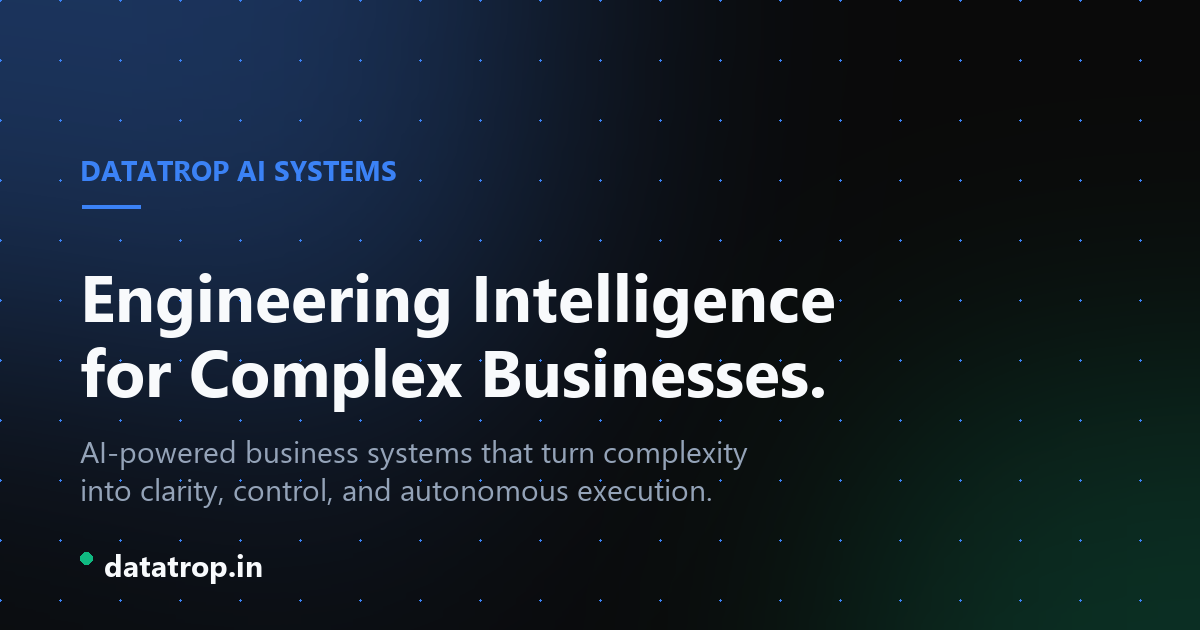
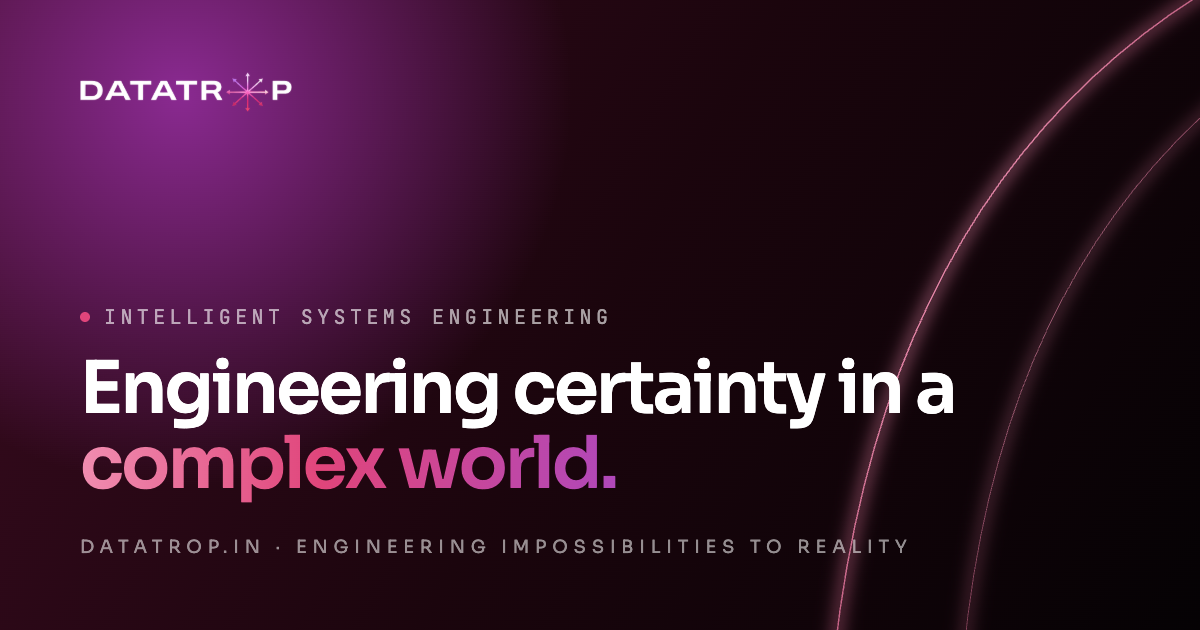
Per-page SEO, pre-rendered HTML and Google Analytics
SEO
- Each page now has its own title, description, canonical, Open Graph /
  Twitter tags, share image and JSON-LD (WebPage, breadcrumbs, and
  Service entries on /what-we-do). Previously every route declared itself
  a duplicate of the homepage via the canonical tag.
- `npm run build` now also server-renders every page into dist/*.html, so
  crawlers and link previews get real content without running JS;
  .htaccess serves /about → about.html etc.
- New brand share images per page (public/og/*.jpg); default og-image
  refreshed. Organization/WebSite JSON-LD get stable @ids; obsolete
  keywords meta removed.

Analytics
- GA4 loads only when VITE_GA_MEASUREMENT_ID is set (deploy reads the
  GA_MEASUREMENT_ID repository variable). Tracks page views across in-app
  navigation, book/message/email/phone clicks, and book_call /
  generate_lead conversions.

diff --git a/src/seo.js b/src/seo.js
@@ -1,0 +1,124 @@
+// Per-page search and share metadata. Used by the app at runtime (title,
+// description, canonical and share tags change as visitors move between pages)
+// and by scripts/prerender.mjs, which bakes the same tags into a static HTML
+// file per page so crawlers and link previews see them without running JS.
+
+export const SITE_URL = 'https://datatrop.in'
+
+export const PAGE_META = {
+  home: {
+    path: '/',
+    title: 'Datatrop | AI Systems & Business Automation Engineering',
+    description:
+      'Datatrop designs, builds and operates intelligent business systems: enterprise AI platforms, AI agents and workforce automation, revenue and communication intelligence. Engineered around your problem, from Kerala, India.',
+    image: '/og/home.jpg',
+  },
+  about: {
+    path: '/about',
+    title: 'About Datatrop | Intelligent Systems Engineering Company',
+    description:
+      'Datatrop is an intelligent systems engineering company. Learn how we build, solve and innovate, the complexity scale we work across, and why we start with the problem, not the technology.',
+    image: '/og/about.jpg',
+    crumb: 'About',
+  },
+  'what-we-do': {
+    path: '/what-we-do',
+    title: 'What We Do | Enterprise AI, AI Agents & Automation | Datatrop',
+    description:
+      'Enterprise AI systems, AI workforce platforms, revenue intelligence, communication intelligence and AI product development. Custom systems that remove manual work, connect your tools and speed up decisions.',
+    image: '/og/what-we-do.jpg',
+    crumb: 'What We Do',
+  },
+  industries: {
+    path: '/industries',
+    title: 'Industries | AI & Automation for Manufacturing, Distribution, Healthcare & Finance | Datatrop',
+    description:
+      'Operational AI and automation systems for manufacturing, distribution and trading, healthcare and financial services, plus logistics, retail, government, energy and more.',
+    image: '/og/industries.jpg',
+    crumb: 'Industries',
+  },
+  contact: {
+    path: '/contact',
+    title: 'Contact Datatrop | Book a 30-Minute Strategy Call',
+    description:
+      'Book a 30-minute strategy call with a Datatrop engineer straight into our calendar, or send us a message and we will reply within 24 hours.',
+    image: '/og/contact.jpg',
+    crumb: 'Contact',
+  },
+}
+
+export const pageKeyFromPath = (path) => {
+  const clean = (path || '/').replace(/\/+$/, '') || '/'
+  return Object.keys(PAGE_META).find((k) => PAGE_META[k].path === clean) || null
+}
+
+// JSON-LD for a page: WebPage + breadcrumb (the Organization block lives in index.html)
+export function pageJsonLd(key) {
+  const m = PAGE_META[key]
+  const url = SITE_URL + (m.path === '/' ? '/' : m.path)
+  const graph = [
+    {
+      '@type': 'WebPage',
+      '@id': `${url}#webpage`,
+      url,
+      name: m.title,
+      description: m.description,
+      isPartOf: { '@id': `${SITE_URL}/#website` },
+      about: { '@id': `${SITE_URL}/#organization` },
+      inLanguage: 'en',
+    },
+  ]
+  if (m.crumb) {
+    graph.push({
+      '@type': 'BreadcrumbList',
+      itemListElement: [
+        { '@type': 'ListItem', position: 1, name: 'Home', item: `${SITE_URL}/` },
+        { '@type': 'ListItem', position: 2, name: m.crumb, item: url },
+      ],
+    })
+  }
+  if (key === 'what-we-do') {
+    const services = [
+      ['Enterprise AI Systems', 'Unified operating platforms that connect every department into one intelligent system.'],
+      ['AI Workforce Platforms', 'Multi-agent systems that execute operational work such as intake, reconciliation, follow-ups and reporting.'],
+      ['Revenue Intelligence Systems', 'Lead intelligence, sales automation and conversion optimization.'],
+      ['Communication Intelligence Platforms', 'Omnichannel communication with call and conversation intelligence.'],
+      ['AI Product Development', 'AI-native products and industry platforms, engineered end to end.'],
+    ]
+    for (const [name, description] of services) {
+      graph.push({ '@type': 'Service', name, description, provider: { '@id': `${SITE_URL}/#organization` }, areaServed: 'Worldwide' })
+    }
+  }
+  return { '@context': 'https://schema.org', '@graph': graph }
+}
+
+// Keep the live document's head in sync when the app switches pages
+export function applyPageMeta(key) {
+  if (typeof document === 'undefined' || !PAGE_META[key]) return
+  const m = PAGE_META[key]
+  const url = SITE_URL + (m.path === '/' ? '/' : m.path)
+  const image = SITE_URL + m.image
+  document.title = m.title
+  const set = (selector, attr, value) => {
+    const el = document.head.querySelector(selector)
+    if (el) el.setAttribute(attr, value)
+  }
+  set('meta[name="description"]', 'content', m.description)
+  set('link[rel="canonical"]', 'href', url)
+  set('meta[property="og:title"]', 'content', m.title)
+  set('meta[property="og:description"]', 'content', m.description)
+  set('meta[property="og:url"]', 'content', url)
+  set('meta[property="og:image"]', 'content', image)
+  set('meta[property="og:image:alt"]', 'content', m.title)
+  set('meta[name="twitter:title"]', 'content', m.title)
+  set('meta[name="twitter:description"]', 'content', m.description)
+  set('meta[name="twitter:image"]', 'content', image)
+  let ld = document.getElementById('page-jsonld')
+  if (!ld) {
+    ld = document.createElement('script')
+    ld.type = 'application/ld+json'
+    ld.id = 'page-jsonld'
+    document.head.appendChild(ld)
+  }
+  ld.textContent = JSON.stringify(pageJsonLd(key))
+}

diff --git a/index.html b/index.html
@@ -5,9 +5,8 @@
     <meta name="viewport" content="width=device-width, initial-scale=1.0" />
 
     <!-- Primary meta -->
-    <title>Datatrop: Engineering Certainty in a Complex World</title>
-    <meta name="description" content="Datatrop AI Systems is an intelligent systems engineering company that designs, builds, and operates solutions for complex business and societal challenges, bringing together AI, software engineering, automation, and systems thinking to transform complexity into lasting stability." />
-    <meta name="keywords" content="systems engineering, intelligent systems, AI systems, enterprise AI, business transformation, digital transformation, automation, systems integration, Datatrop, systems engineering company India" />
+    <title>Datatrop | AI Systems &amp; Business Automation Engineering</title>
+    <meta name="description" content="Datatrop designs, builds and operates intelligent business systems: enterprise AI platforms, AI agents and workforce automation, revenue and communication intelligence. Engineered around your problem, from Kerala, India." />
     <meta name="author" content="Datatrop AI Systems" />
     <meta name="robots" content="index, follow, max-image-preview:large, max-snippet:-1, max-video-preview:-1" />
     <meta name="theme-color" content="#1B050D" />
@@ -22,20 +21,20 @@
     <!-- Open Graph -->
     <meta property="og:type" content="website" />
     <meta property="og:site_name" content="Datatrop AI Systems" />
-    <meta property="og:title" content="Datatrop: Engineering Certainty in a Complex World" />
-    <meta property="og:description" content="Datatrop is an intelligent systems engineering company. We design, build, and operate the systems that restore order wherever complexity prevents progress." />
+    <meta property="og:title" content="Datatrop | AI Systems &amp; Business Automation Engineering" />
+    <meta property="og:description" content="Datatrop designs, builds and operates intelligent business systems: enterprise AI platforms, AI agents and workforce automation, revenue and communication intelligence. Engineered around your problem, from Kerala, India." />
     <meta property="og:url" content="https://datatrop.in/" />
-    <meta property="og:image" content="https://datatrop.in/og-image.png" />
+    <meta property="og:image" content="https://datatrop.in/og/home.jpg" />
     <meta property="og:image:width" content="1200" />
     <meta property="og:image:height" content="630" />
-    <meta property="og:image:alt" content="Datatrop: Engineering Certainty in a Complex World" />
+    <meta property="og:image:alt" content="Datatrop | AI Systems &amp; Business Automation Engineering" />
     <meta property="og:locale" content="en_US" />
 
     <!-- Twitter -->
     <meta name="twitter:card" content="summary_large_image" />
-    <meta name="twitter:title" content="Datatrop: Engineering Certainty in a Complex World" />
-    <meta name="twitter:description" content="An intelligent systems engineering company. We design, build, and operate the systems that restore order wherever complexity prevents progress." />
-    <meta name="twitter:image" content="https://datatrop.in/og-image.png" />
+    <meta name="twitter:title" content="Datatrop | AI Systems &amp; Business Automation Engineering" />
+    <meta name="twitter:description" content="Datatrop designs, builds and operates intelligent business systems: enterprise AI platforms, AI agents and workforce automation, revenue and communication intelligence. Engineered around your problem, from Kerala, India." />
+    <meta name="twitter:image" content="https://datatrop.in/og/home.jpg" />
 
     <!-- Structured data -->
     <script type="application/ld+json">
@@ -43,13 +42,14 @@
       {
         "@context": "https://schema.org",
         "@type": ["Organization", "ProfessionalService"],
+        "@id": "https://datatrop.in/#organization",
         "name": "Datatrop AI Systems",
         "alternateName": "Datatrop",
         "url": "https://datatrop.in/",
         "logo": "https://datatrop.in/datatrop-logo.png",
-        "image": "https://datatrop.in/og-image.png",
+        "image": "https://datatrop.in/og/home.jpg",
         "description": "Datatrop AI Systems is a technology engineering company that designs and builds intelligent business systems for organizations facing complex operational and data challenges. We combine artificial intelligence, data engineering, custom software, enterprise integrations, cloud technologies and advanced analytics into unified operational platforms. Every solution is engineered around the problem, not around a particular technology.",
-        "slogan": "Engineering Intelligence. Solving Complexity.",
+        "slogan": "Engineering impossibilities to reality.",
         "sameAs": ["https://www.linkedin.com/company/datatrop-ai"],
         "email": "sales@datatrop.in",
         "telephone": "+91-7902917795",
@@ -78,6 +78,8 @@
       {
         "@context": "https://schema.org",
         "@type": "WebSite",
+        "@id": "https://datatrop.in/#website",
+        "publisher": { "@id": "https://datatrop.in/#organization" },
         "name": "Datatrop AI Systems",
         "url": "https://datatrop.in/"
       }

diff --git a/src/App.jsx b/src/App.jsx
@@ -1,6 +1,8 @@
 import { useState, useEffect, useRef } from 'react'
 import './App.css'
 import { api } from './lib/api'
+import { PAGE_META, pageKeyFromPath, applyPageMeta } from './seo'
+import { initAnalytics, trackPageView, track } from './analytics'
 
 // ── Booking: handled natively by <BookingWidget/>, which reads real availability
 //    from the connected Outlook calendar and books the meeting on it.
@@ -118,6 +120,7 @@ function BookingWidget() {
     setBusy(true); setErr('')
     try {
       const r = await api.createBooking({ ...form, start: slot.start })
+      track('book_call', { method: 'calendar' })
       setDone(r)
     } catch (e2) {
       setErr(e2.message || 'Could not complete the booking.')
@@ -1659,6 +1662,7 @@ function Contact({ settings }) {
         company_size: form.size,
         challenge: form.challenge,
       })
+      track('generate_lead', { method: 'contact_form', industry: form.industry || undefined, company_size: form.size || undefined })
       setSubmitted(true)
       setForm(emptyForm)
     } catch (e2) {
@@ -1833,16 +1837,7 @@ function hexToChannels(hex) {
 
 const STATIC_PREVIEW = import.meta.env.VITE_STATIC_PREVIEW === 'true'
 
-const PAGES = {
-  '/': { key: 'home', title: 'Datatrop: Engineering Certainty in a Complex World' },
-  '/about': { key: 'about', title: 'About Datatrop: Intelligent Systems Engineering' },
-  '/what-we-do': { key: 'what-we-do', title: 'What We Do: AI Systems, Workforces and Platforms | Datatrop' },
-  '/industries': { key: 'industries', title: 'Industries | Datatrop' },
-  '/contact': { key: 'contact', title: 'Contact Datatrop: Book a Strategy Call' },
-}
-const normalizePath = (path) => (path.replace(/\/+$/, '') || '/')
-const pageFromPath = (path) => PAGES[normalizePath(path)]?.key || 'home'
-const titleFor = (key) => Object.values(PAGES).find((p) => p.key === key)?.title || PAGES['/'].title
+const pageFromPath = (path) => pageKeyFromPath(path) || 'home'
 
 function scrollToHash(hash) {
   const id = (hash || '').replace('#', '')
@@ -1862,6 +1857,7 @@ export default function App({ page: initialPage = 'home' }) {
   const [serviceLines, setServiceLines] = useState(DEFAULT_SERVICE_LINES)
 
   useEffect(() => {
+    initAnalytics()
     api.getContent().then((row) => {
       if (!row) return
       setSettings(row)
@@ -1880,7 +1876,8 @@ export default function App({ page: initialPage = 'home' }) {
 
   // Page title + land on any #section in the URL once the page has rendered
   useEffect(() => {
-    document.title = titleFor(page)
+    applyPageMeta(page)
+    trackPageView(PAGE_META[page].path, PAGE_META[page].title)
     const hash = pendingHash.current
     pendingHash.current = ''
     const t = setTimeout(() => scrollToHash(hash), 60)
@@ -1903,9 +1900,15 @@ export default function App({ page: initialPage = 'home' }) {
     if (e.defaultPrevented || e.button !== 0 || e.metaKey || e.ctrlKey || e.shiftKey || e.altKey) return
     const a = e.target.closest('a')
     const href = a?.getAttribute('href')
-    if (!href || !href.startsWith('/') || a.target === '_blank') return
+    if (!href) return
+    const where = a.closest('nav') ? 'nav' : a.closest('footer') ? 'footer' : (a.closest('section')?.id || 'page')
+    if (href.startsWith('mailto:')) track('contact_click', { method: 'email' })
+    else if (href.startsWith('tel:')) track('contact_click', { method: 'phone' })
+    else if (href.endsWith('#book')) track('book_call_click', { location: where, page })
+    else if (href.endsWith('#message')) track('message_click', { location: where, page })
+    if (!href.startsWith('/') || a.target === '_blank') return
     const [path, hash = ''] = href.split('#')
-    if (!PAGES[normalizePath(path)]) return
+    if (!pageKeyFromPath(path)) return
     const target = pageFromPath(path)
     e.preventDefault()
     // The static approval preview is a single file, so it switches pages without touching the URL

diff --git a/src/analytics.js b/src/analytics.js
@@ -1,0 +1,41 @@
+// Google Analytics 4, loaded only when a measurement ID is configured at build
+// time (VITE_GA_MEASUREMENT_ID, set as a GitHub Actions variable for deploys).
+// Without an ID every call here is a no-op, so local dev and the approval
+// preview never send data.
+
+const GA_ID = import.meta.env.VITE_GA_MEASUREMENT_ID || ''
+let started = false
+
+export function initAnalytics() {
+  if (!GA_ID || started || typeof window === 'undefined') return
+  started = true
+  window.dataLayer = window.dataLayer || []
+  window.gtag = function gtag() { window.dataLayer.push(arguments) }
+  window.gtag('js', new Date())
+  // Page views are sent manually on every in-app page change (see trackPageView)
+  window.gtag('config', GA_ID, { send_page_view: false })
+  const s = document.createElement('script')
+  s.async = true
+  s.src = `https://www.googletagmanager.com/gtag/js?id=${GA_ID}`
+  document.head.appendChild(s)
+}
+
+export function trackPageView(path, title) {
+  if (!started) return
+  window.gtag('event', 'page_view', {
+    page_path: path,
+    page_location: window.location.origin + path,
+    page_title: title,
+  })
+}
+
+// Named events used across the site:
+//   book_call_click   any "Book a call" button        { location }
+//   message_click     any "Send a message" button     { location }
+//   contact_click     email / phone link              { method: 'email' | 'phone' }
+//   book_call         a booking was confirmed          (mark as a key event in GA4)
+//   generate_lead     the message form was sent        (mark as a key event in GA4)
+export function track(event, params = {}) {
+  if (!started) return
+  window.gtag('event', event, params)
+}

diff --git a/src/entry-server.jsx b/src/entry-server.jsx
@@ -1,0 +1,8 @@
+// Server entry used only at build time by scripts/prerender.mjs to turn each
+// page into static HTML. The browser still boots normally from main.jsx.
+import { renderToString } from 'react-dom/server'
+import App from './App.jsx'
+
+export function render(page) {
+  return renderToString(<App page={page} />)
+}
